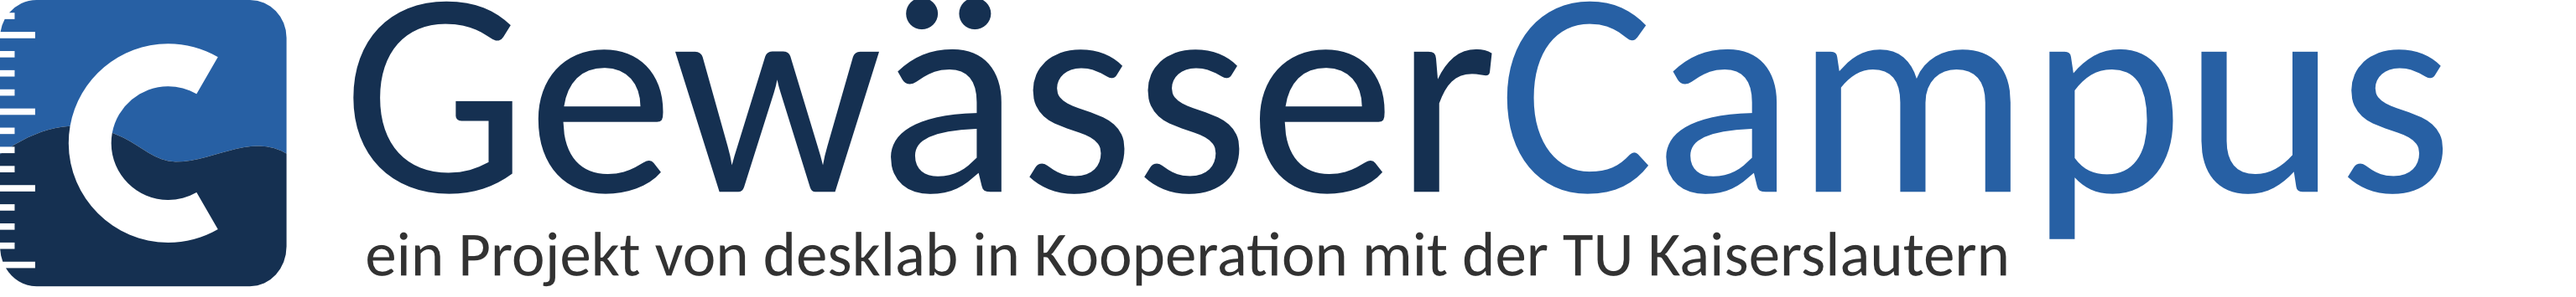
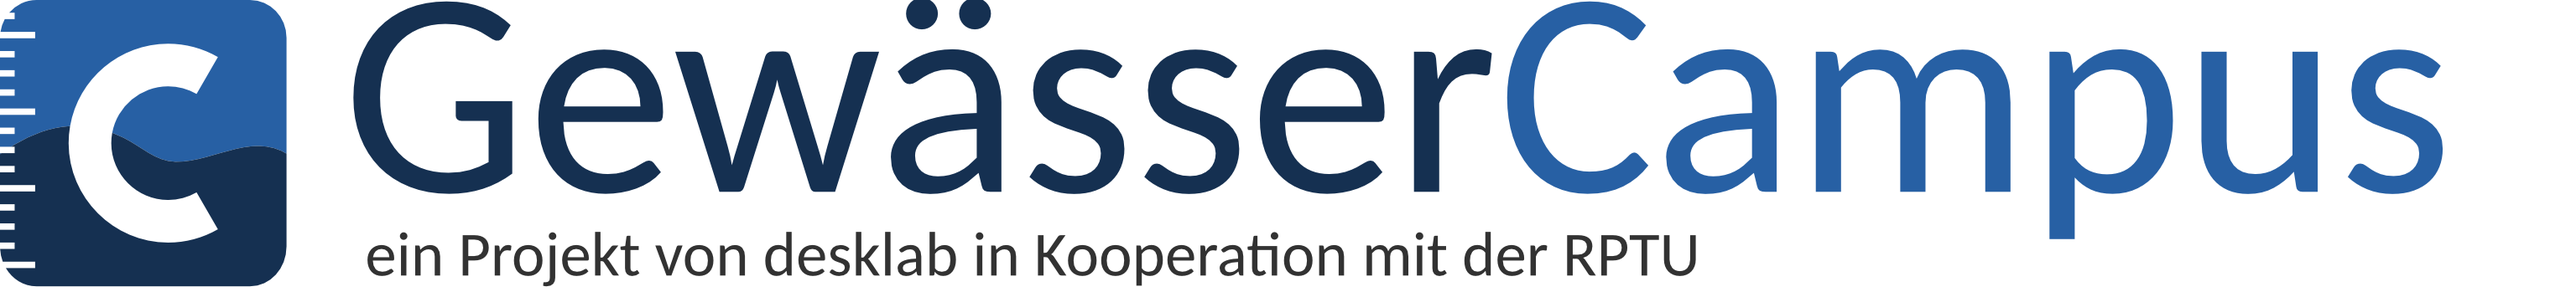
replace all occurrences of TUKL with RPTU

Changed region(s): [[0.5878, 0.7746, 0.7734, 0.9296]]

diff --git a/gcampus/documents/templates/gcampusdocuments/documents/access_course.html b/gcampus/documents/templates/gcampusdocuments/documents/access_course.html
@@ -43,9 +43,9 @@
         <div class="w-88 float-left">
             {% blocktrans trimmed %}
                 The project <span class="color-secondary">Gewässer</span><span class="color-primary">Campus</span>
-                is carried out by <i>gemeinnützige desklab&nbsp;UG (haftungsbeschränkt)</i> in cooperation with
-                <i>AG&nbsp;Bioverfahrenstechnik der TU&nbsp;Kaiserslautern</i> and financially supported by the
-                <i>Deutsche Bundesstiftung Umwelt</i>. More educational material and information on this project
+                is carried out by the <i>non-profit organisation desklab</i> in cooperation with the
+                <i>WG for Bioprocess Engineering of the RPTU</i> and financially supported by the
+                <i>German Federal Environmental Foundation (DBU)</i>. More educational material and information on this project
                 is available at www.gewaessercampus.de.
             {% endblocktrans %}
         </div>

diff --git a/gcampus/documents/templates/gcampusdocuments/documents/access_student_combined.html b/gcampus/documents/templates/gcampusdocuments/documents/access_student_combined.html
@@ -43,9 +43,9 @@
     <div class="w-88 float-left">
         {% blocktrans trimmed %}
             The project <span class="color-secondary">Gewässer</span><span class="color-primary">Campus</span>
-            is carried out by <i>gemeinnützige desklab&nbsp;UG (haftungsbeschränkt)</i> in cooperation with
-            <i>AG&nbsp;Bioverfahrenstechnik der TU&nbsp;Kaiserslautern</i> and financially supported by the
-            <i>Deutsche Bundesstiftung Umwelt</i>. More educational material and information on this project
+            is carried out by the <i>non-profit organisation desklab</i> in cooperation with the
+            <i>WG for Bioprocess Engineering of the RPTU</i> and financially supported by the
+            <i>German Federal Environmental Foundation (DBU)</i>. More educational material and information on this project
             is available at www.gewaessercampus.de.
         {% endblocktrans %}
     </div>

diff --git a/gcampus/documents/static_src/styles/_page.scss b/gcampus/documents/static_src/styles/_page.scss
@@ -12,7 +12,7 @@ head, head > title, head > meta {
 @page {
     margin: 3cm 2cm 2.2cm 2cm; //top right bottom left
     @bottom-center {
-        //content: "Die Webanwendung GewässerCampus durch die gemeinnützige desklab UG (haftungsbeschränkt) in Zusammenarbeit mit der AG Bioverfahrenstechnik der TU Kaiserslautern entwickelt und durch die Deutsche Bundesstiftung Umwelt finanziell gefördert.";
+        //content: "Die Webanwendung GewässerCampus wird durch die gemeinnützige desklab UG (haftungsbeschränkt) in Zusammenarbeit mit dem Lehrgebiet für Bioverfahrenstechnik der RPTU entwickelt und durch die Deutsche Bundesstiftung Umwelt finanziell gefördert.";
         content: "";
         font-size: 7pt;
         text-align: justify;

diff --git a/docs/index.md b/docs/index.md
@@ -3,9 +3,9 @@
 **Technical Documentation**
 
 GewässerCampus is part of an educational project on Limnology aiming to provide students the possibility to analyse,
-publish and discuss results of self-conducted measurements of water-quality in rivers and lakes. It is developed
-by [desklab](https://desk-lab.de) in cooperation with the TU Kaiserslautern and funded by the Deutsche Bundesstiftung
-Umwelt.
+publish and discuss results of self-conducted measurements of water-quality in rivers and lakes. It is developed by
+[desklab](https://www.desk-lab.de) in cooperation with the [RPTU](https://www.mv.uni-kl.de/biovt/) and funded by 
+the [DBU](https://www.dbu.de/).
 
 ```{important}
 This is a technical documentation intedned for developers, data

diff --git a/README.md b/README.md
@@ -11,7 +11,7 @@
 Limnology aiming to provide students the possibility to analyse, publish
 and discuss results of self-conducted measurements of water-quality in
 rivers and lakes. It is developed by [desklab](https://www.desk-lab.de) in
-cooperation with the [TU Kaiserslautern](https://www.mv.uni-kl.de/biovt/)
+cooperation with the [RPTU](https://www.mv.uni-kl.de/biovt/)
 and funded by the [DBU](https://www.dbu.de/).
 See [gewaessercampus.de](https://gewaessercampus.de) for more information.
 
